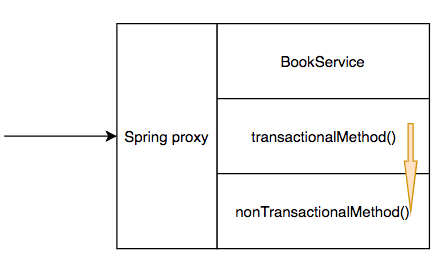
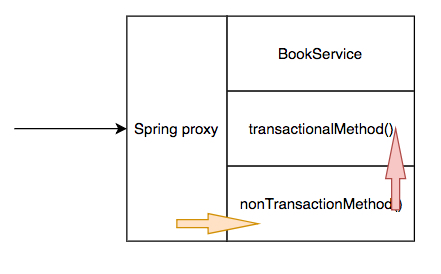
updated

Changed region(s): [[0.0295, 0.0294, 0.9728, 0.9412], [0.619, 0.1765, 0.8254, 0.2647]]

diff --git a/README.md b/README.md
@@ -1,5 +1,10 @@
-# To demonstrate the usage of spring @Transaction
-There is a class `BookService`, with two methods, `transactionalMethod()` and `nonTransactionalMethod()`. `nonTransactionalMethod()` will call to `transactionalMethod()`, and you are surprised when called by `nonTransactionalMethod()`, `transactionalMethod()` also becomes non-transactional. You can run the two test cases in `BookServiceTest`.
+# To demonstrate the usage (gotcha) of spring @Transaction
+There is a class `BookService`, with two methods, `transactionalMethod()` and `nonTransactionalMethod()`. `transactionalMethod()` annotated with `@Transactional`, whereas `nonTransactionalMethod()` is not. When `transactionalMethod()` is being invoked, the database queries happen within it will happen within a database transaction, meaning all database queries would be rolled back if exception happened, committed if everything is ok.
+
+1. `BookServiceTest -> bookService -> transactionalMethod()`
+2. `BookServiceTest -> bookService -> nonTransactionMethod() -> transactionMethod()`
+
+And you think in the case 2 above, even though `nonTransactionalMethod()` is non-transactional, but it calls to `transactionalMethod()`, database queries should also be transaction-ied, but it is not. In case 2, none of the database queries is transaction-ied.
 
 Reason being, let's say this is `BookService`
 
@@ -13,6 +18,6 @@ When `BookServiceTest` calls `BookService`, it will first go to spring proxy, sp
 
 ![Transactional](annotation-method.jpg)
 
-Whereas when `transactionalMethod()` being called from `nonTransactionalMethod()`, because `transactionalMethod()` was not called within spring proxy, therefore `@Transactional` magic didn't happen. Like below:
+Whereas when `transactionalMethod()` being called from `nonTransactionalMethod()`, because `transactionalMethod()` was not called within spring proxy (the red arrow), therefore `@Transactional` magic didn't happen. Like below:
 
 ![Internal method](without-annotation-method.jpg)
